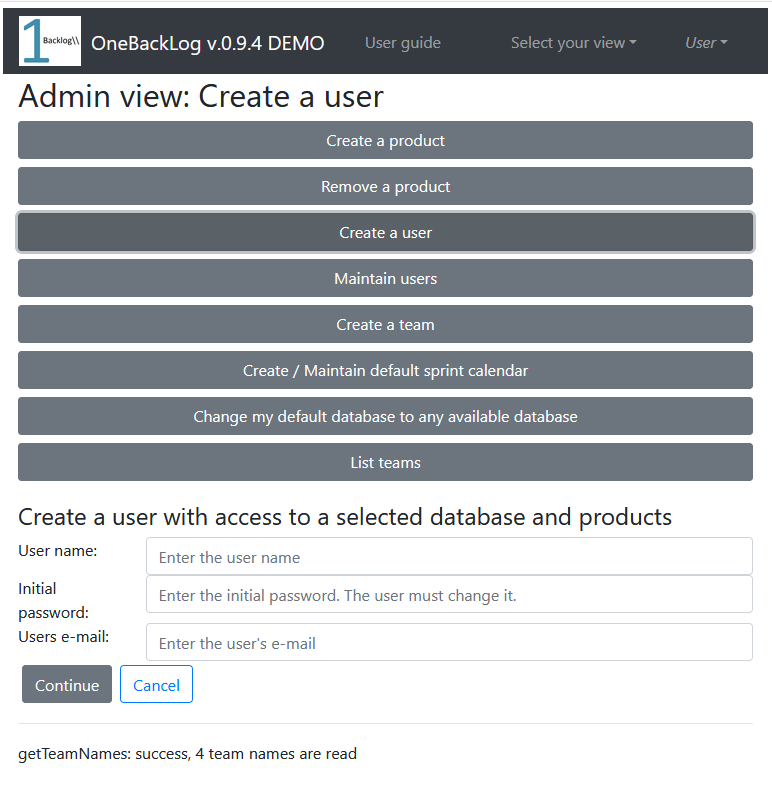
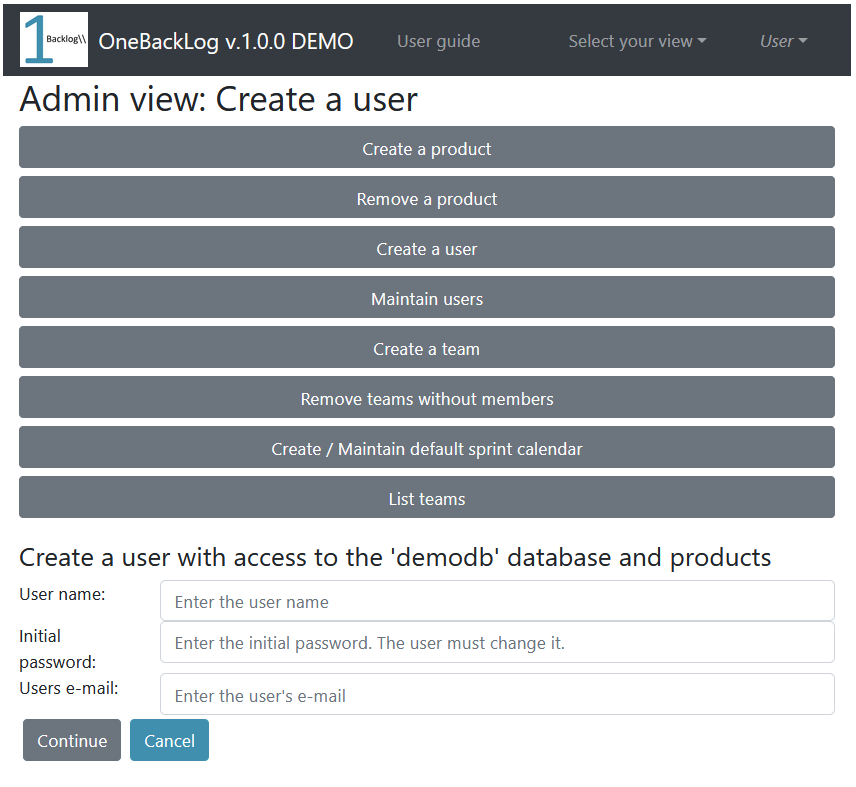
Prepare for next release

Changed region(s): [[0.0, 0.0, 0.9948, 0.9759]]

diff --git a/src/components/rel-notes/rel-notes.vue b/src/components/rel-notes/rel-notes.vue
@@ -6,6 +6,27 @@
         <b-col cols="12" class="left-column">
           <h1>RELEASE NOTES</h1>
           <p v-if="this.$store.state.demo">Note: This is a demo version of the application.</p>
+          <h3>v.1.0.0 - 18 July 2020 Feature complete release</h3>
+          <p>New features:</p>
+          <ul>
+            <li>On-hold column added to the planning board</li>
+            <li>Some missing udo's implemented</li>
+            <li>Automatic sprint calendar extension when no more sprints available</li>
+          </ul>
+          <p>Bug fixes:</p>
+          <ul>
+            <li>Fix bug when deleting items from the Products overview (no more orphans left)</li>
+            <li>Fix bug when deleting/(undoing this delete) of items with dependencies to items not deleted</li>
+            <li>Repaint the planning board after a deletion, of items in another user's session, is completed successfully</li>
+          </ul>
+          <p>Design changes:</p>
+          <ul>
+            <li>Generic overhaul of access rights</li>
+            <li>'Removed' is not a status anymore. Use On-hold instead, or delete the item</li>
+            <li>Always update the database first before repainting the tree view or the planning board,<br/>
+             with the exception of tree view drag &amp; drop where immediate response is paramount</li>
+          </ul>
+          <hr />
           <h3>v.0.9.9 - 12 June 2020 Feature update and bug fixes</h3>
           <p>New features:</p>
           <ul>

diff --git a/README.md b/README.md
@@ -1,6 +1,27 @@
 # OneBacklog
 
-> A Vue.js web application. Licenced under GPL-3.0-or-later See LICENCE.txt
+A Vue.js web application. Licenced under GPL-3.0-or-later See LICENCE.txt
+
+***********************************************************************************
+With version 1.0.0 the app is feature complete with the basics:
+- security and authorization
+- tree view of the backlog
+- drag & drop backlog prioritization
+- build in editor for the item description and the acceptance criteria
+- assignment of requirement areas
+- dependencies between items
+- a state consistency check
+- team assignment to items
+- a generic and team calendars for the sprints
+- a sprint planning board
+- comments, history and attachments
+- two way sycnchronization between backlog and planning board
+- synchronization between user sessions, both for the tree view and the planning board
+- a set of admin functions for backup/restore, user maintenance etc.
+- automatic initiation of the first and possibly more databases
+
+PLEASE RAISE AN ISSUE WHEN YOU FIND A DEFECT OR WANT TO ADD A GREAT FEATURE!
+***********************************************************************************
 
 ![img](https://github.com/ErikVerheul/OneBacklog/blob/master/src/assets/logo.png)
 
@@ -107,7 +128,7 @@ Developers can create new pbi's for their product(s) but not change priorities i
 Viewers can only read the information of the products assigned to them.
 
 <b>Non functional requirements:</b>
-Up to 100 simultaneous users, smooth tree view response up to 200 visible nodes. The database can handle an unlimited number of items. Updates by other users are available within 1 second with a ADSL Internet connection. Notification of network connection loss and automatic recovery.
+The number of simultaneous users viewing changes, made by a reasonable (not tested yet) number of users, is unlimited. The browser limits a smooth tree view response to approximately 200 visible nodes. The database can handle an unlimited number of items. Updates by other users are available within 1 second with a ADSL Internet connection. Notification of network connection loss and automatic recovery.
 
 ## Implementation
 
